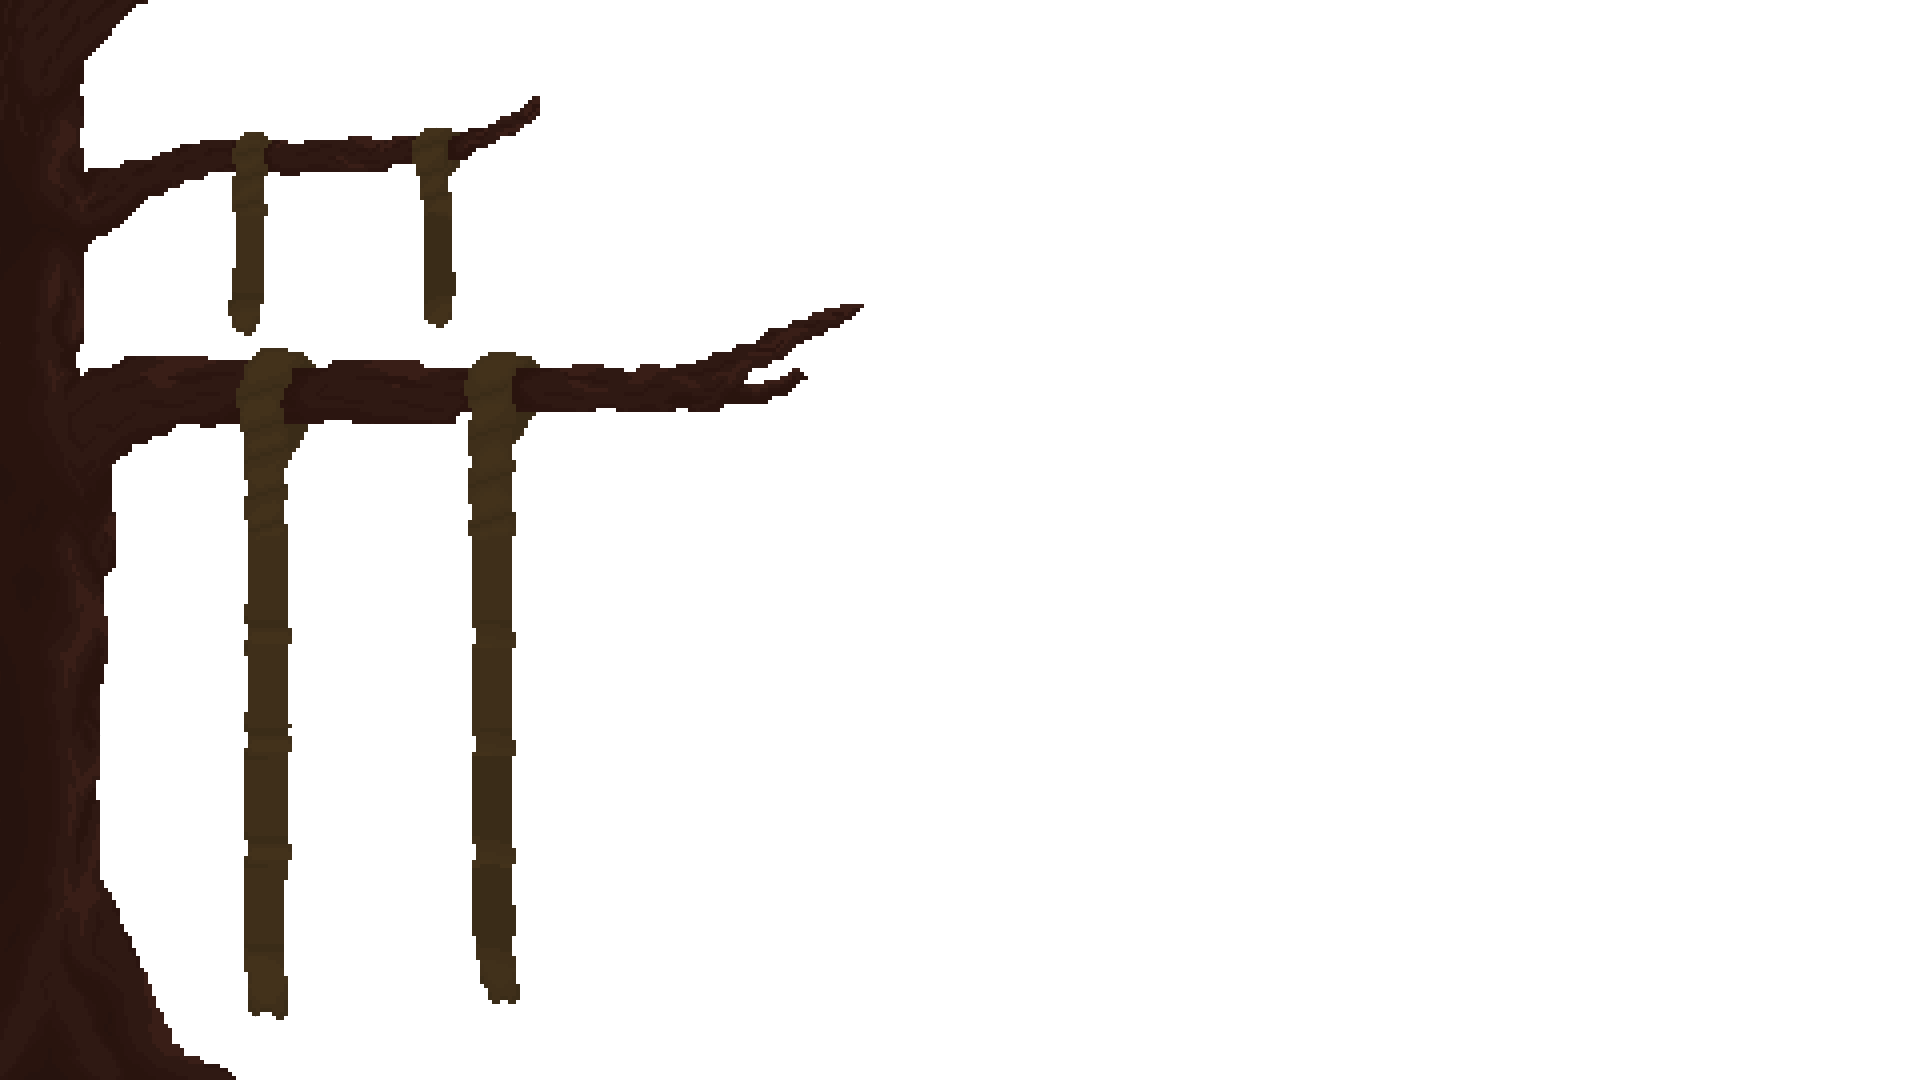
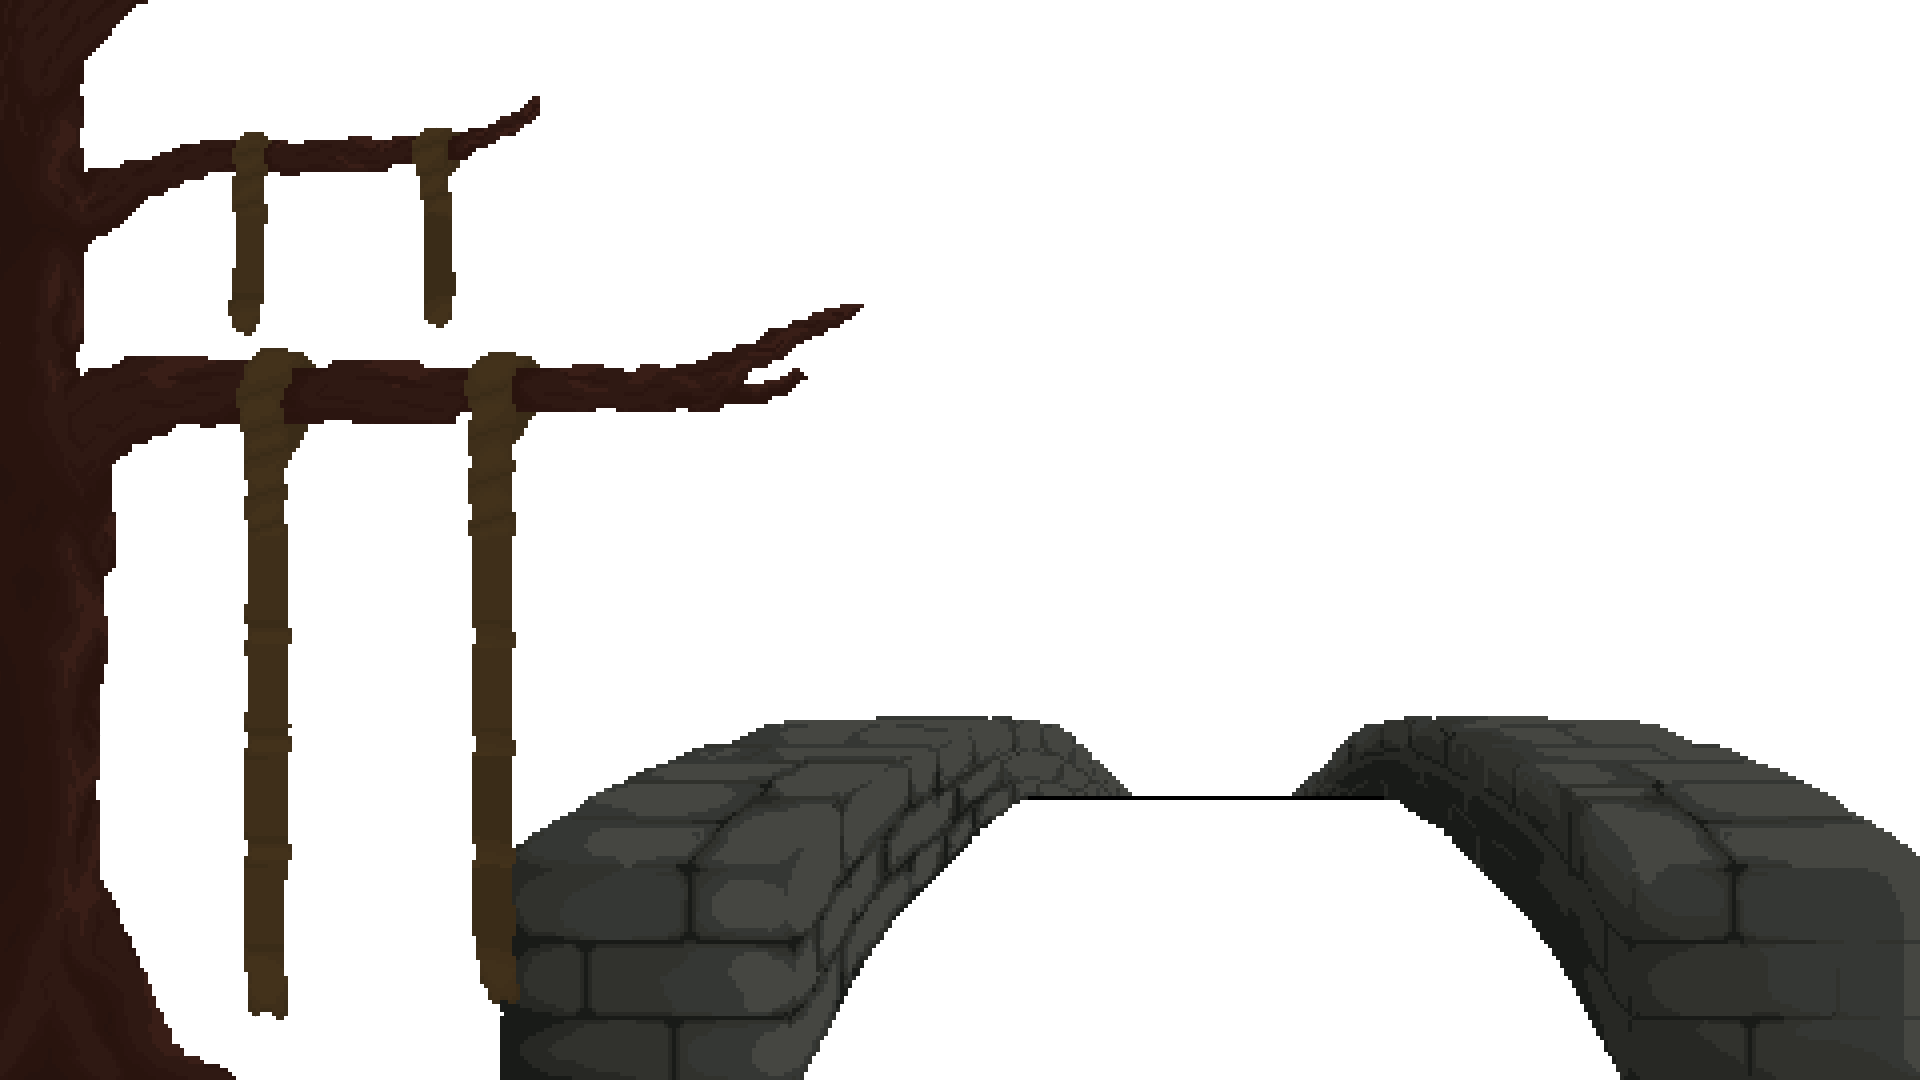
Added new menu background and added scalable dialog background.

Changed region(s): [[0.25, 0.6417, 1.0, 1.0]]

diff --git a/core/src/com/game/Manager/TipsManager.java b/core/src/com/game/Manager/TipsManager.java
@@ -3,6 +3,7 @@ package com.game.Manager;
 import com.badlogic.gdx.Gdx;
 import com.badlogic.gdx.files.FileHandle;
 import com.badlogic.gdx.graphics.Color;
+import com.badlogic.gdx.graphics.Pixmap;
 import com.badlogic.gdx.graphics.Texture;
 import com.badlogic.gdx.graphics.g2d.BitmapFont;
 import com.badlogic.gdx.graphics.g2d.TextureAtlas;
@@ -33,6 +34,7 @@ public class TipsManager {
     private Table table_mechanics, table_enemies, table_upgrades, table_towers, table_buttons;
 
     private Dialog tipsDialog;
+    private Pixmap scaledpm;
 
     public TipsManager(LanguageManager languageManager, BitmapFont font, Base base, float scale){
         this.languageManager = languageManager;
@@ -51,18 +53,25 @@ public class TipsManager {
         createTipsEnemiesTable();
         createTipsTowersTable();
         createTipsUpgradesTable();
-        createTipsDialog();
     }
     public void createTipsDialog(){
-
-        this.tipsDialog = new Dialog("", new Window.WindowStyle(font, Color.WHITE, new TextureRegionDrawable(new TextureRegion(new Texture(new FileHandle("assets/tempBackground.png"))))));
+        Pixmap pm = new Pixmap(new FileHandle("assets/tempBackground.png"));
+        scaledpm = new Pixmap((int) (1920*scale/1.5f), (int) (1080*scale/1.5f), pm.getFormat());
+        scaledpm.drawPixmap(pm,
+                0, 0, pm.getWidth(), pm.getHeight(),
+                0, 0, scaledpm.getWidth(), scaledpm.getHeight()
+        );
+        Texture dialogBg = new Texture(scaledpm);
+        this.tipsDialog = new Dialog("", new Window.WindowStyle(font, Color.WHITE, new TextureRegionDrawable(new TextureRegion(dialogBg))));
         tipsDialog.setBounds(0,0,Gdx.graphics.getWidth(), Gdx.graphics.getHeight());
         tipsDialog.row();
         Table bTable = returnTipsButtonsTable();
-        tipsDialog.add(bTable).align(Align.center);//.padBottom(Gdx.graphics.getHeight()-bTable.getHeight())
+        tipsDialog.add(bTable).align(Align.center).height(Gdx.graphics.getHeight()/10);//.padBottom(Gdx.graphics.getHeight()-bTable.getHeight())
         tipsDialog.row();
         Table mTable = returnTipsMechanicsTable();
-        tipsDialog.add(mTable).width(Gdx.graphics.getWidth()).colspan(2);
+        mTable.debug();
+        tipsDialog.add(mTable).width(Gdx.graphics.getWidth()).colspan(2).height(Gdx.graphics.getHeight()/10*9);
+        tipsDialog.row();
     }
     public Dialog returnTipsDialog(){
         return  tipsDialog;
@@ -84,11 +93,11 @@ public class TipsManager {
         table_buttons.add(bTowers).height(Gdx.graphics.getHeight()/10);
         table_buttons.add(bUpgrades).height(Gdx.graphics.getHeight()/10);
         table_buttons.add(bBack).height(Gdx.graphics.getHeight()/10);
-        table_buttons.debug();
+        //table_buttons.debug();
     }
     public void createTipsMechanicsTable(){
         this.table_mechanics = new Table();
-        table_mechanics.debug();
+        //table_mechanics.debug();
         table_mechanics.setBounds(0,0, Gdx.graphics.getWidth(),Gdx.graphics.getHeight()/10*8);
         textFieldStyleManager.setTextFieldStyle(textFieldStyle, text_tips, font, "empty_text", Color.WHITE);
         tDifficulty = new TextField(languageManager.getValue(languageManager.getLanguage(), "tDifficulty"), textFieldStyleManager.returnTextFieldStyle(textFieldStyle));
@@ -116,13 +125,13 @@ public class TipsManager {
         table_mechanics.row();
         //table_mechanics.add(); new Image rozdzielacz
         table_mechanics.row();
-        table_mechanics.add(tShop).width(Gdx.graphics.getWidth());
-        table_mechanics.add(tShopDescription).width(Gdx.graphics.getWidth());
+        table_mechanics.add(tShop).width(Gdx.graphics.getWidth()/2);
+        table_mechanics.add(tShopDescription).width(Gdx.graphics.getWidth()/2);
         table_mechanics.row();
         //table_mechanics.add(); new Image rozdzielacz
         table_mechanics.row();
-        table_mechanics.add(tObstacles).width(Gdx.graphics.getWidth());
-        table_mechanics.add(tObstaclesDescription).width(Gdx.graphics.getWidth());
+        table_mechanics.add(tObstacles).width(Gdx.graphics.getWidth()/2);
+        table_mechanics.add(tObstaclesDescription).width(Gdx.graphics.getWidth()/2);
         table_mechanics.row();
 
 
@@ -178,9 +187,15 @@ public class TipsManager {
             @Override
             public void clicked(InputEvent event, float x, float y) {
                 tipsDialog.clear();
-                tipsDialog.add(returnTipsButtonsTable());
                 tipsDialog.row();
-                tipsDialog.add(returnTipsMechanicsTable());
+                Table bTable = returnTipsButtonsTable();
+                tipsDialog.add(bTable).align(Align.center).height(Gdx.graphics.getHeight()/10);//.padBottom(Gdx.graphics.getHeight()-bTable.getHeight())
+                tipsDialog.row();
+                Table mTable = returnTipsMechanicsTable();
+                System.out.println("TETS:" + bTable.getHeight() + " I " + mTable.getHeight());
+                mTable.debug();
+                tipsDialog.add(mTable).width(Gdx.graphics.getWidth()).colspan(2).height(Gdx.graphics.getHeight()/10*9);
+                tipsDialog.row();
             }
         });
         bEnemies.addListener(new ClickListener() {
@@ -214,6 +229,8 @@ public class TipsManager {
         bBack.addListener(new ClickListener() {
             @Override
             public void clicked(InputEvent event, float x, float y) {
+                scaledpm.dispose();
+                tipsDialog.clear();
                 base.setState(Base.State.Resumed);
             }
         });

diff --git a/core/src/com/game/Screens/GameScreen.java b/core/src/com/game/Screens/GameScreen.java
@@ -890,8 +890,8 @@ public class GameScreen implements Screen {
         bTips.addListener(new ClickListener() {
             @Override
             public void clicked(InputEvent event, float x, float y) {
-
-                 Dialog tipsDialog = tipsManager.returnTipsDialog();
+                tipsManager.createTipsDialog();
+                Dialog tipsDialog = tipsManager.returnTipsDialog();
                 //Dialog tipsDialog = new Dialog("", new Window.WindowStyle(font, Color.WHITE, new TextureRegionDrawable(new TextureRegion(new Texture(new FileHandle("assets/tempBackground.png"))))));
                 tipsDialog.setBounds(0,0,Gdx.graphics.getWidth(), Gdx.graphics.getHeight());
                 tipsDialog.show(pauseStage);
